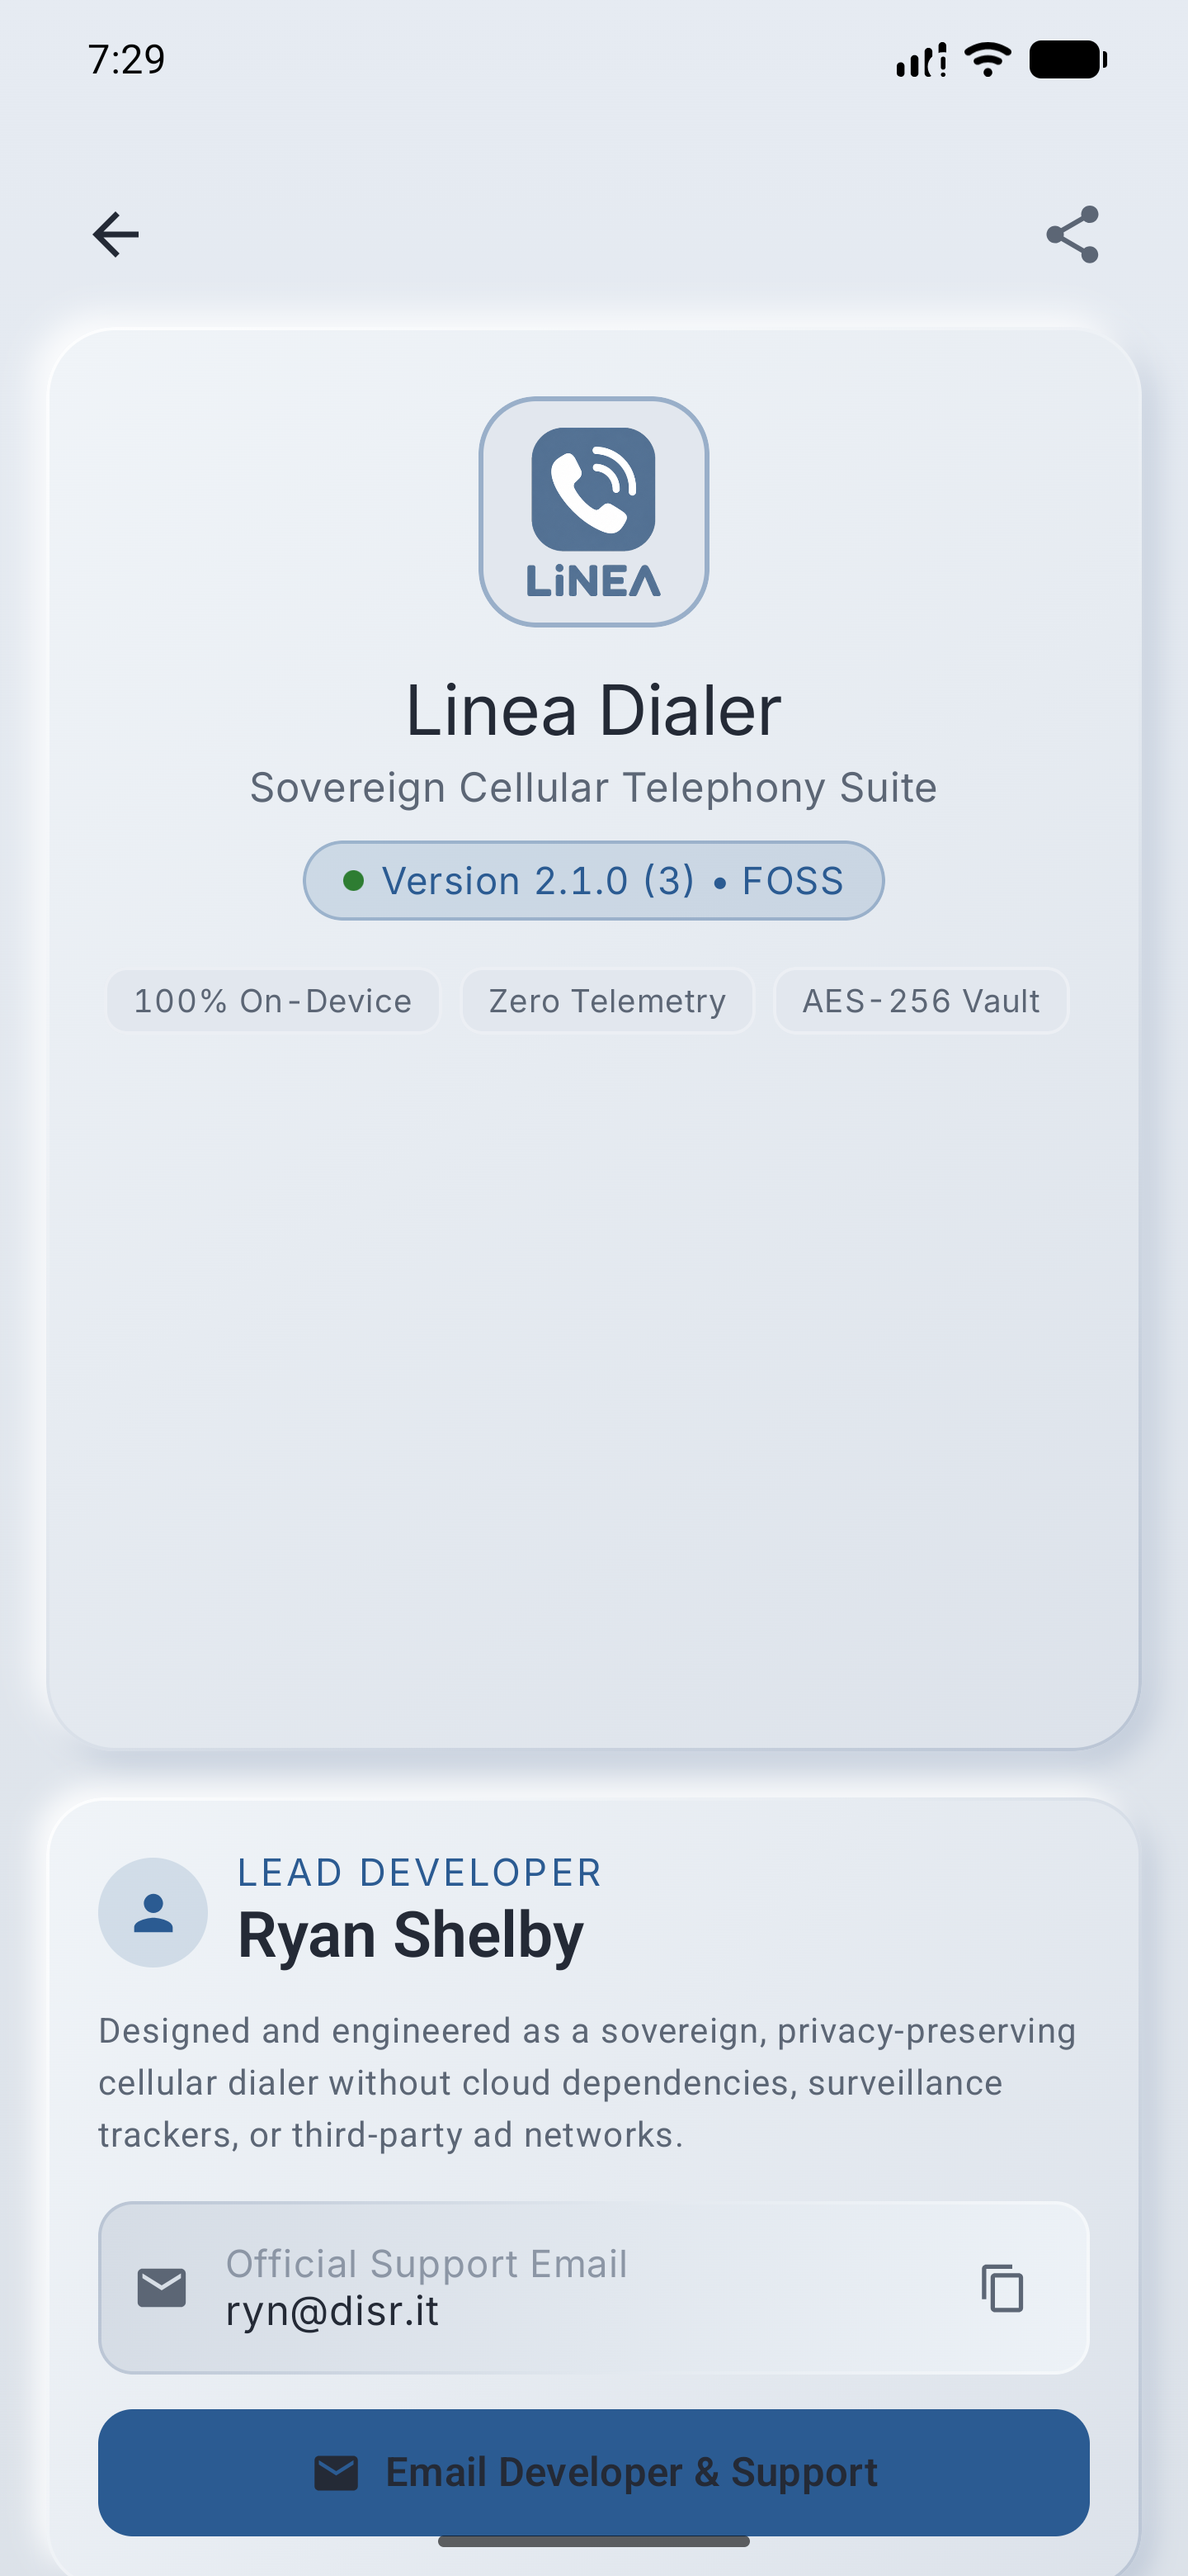
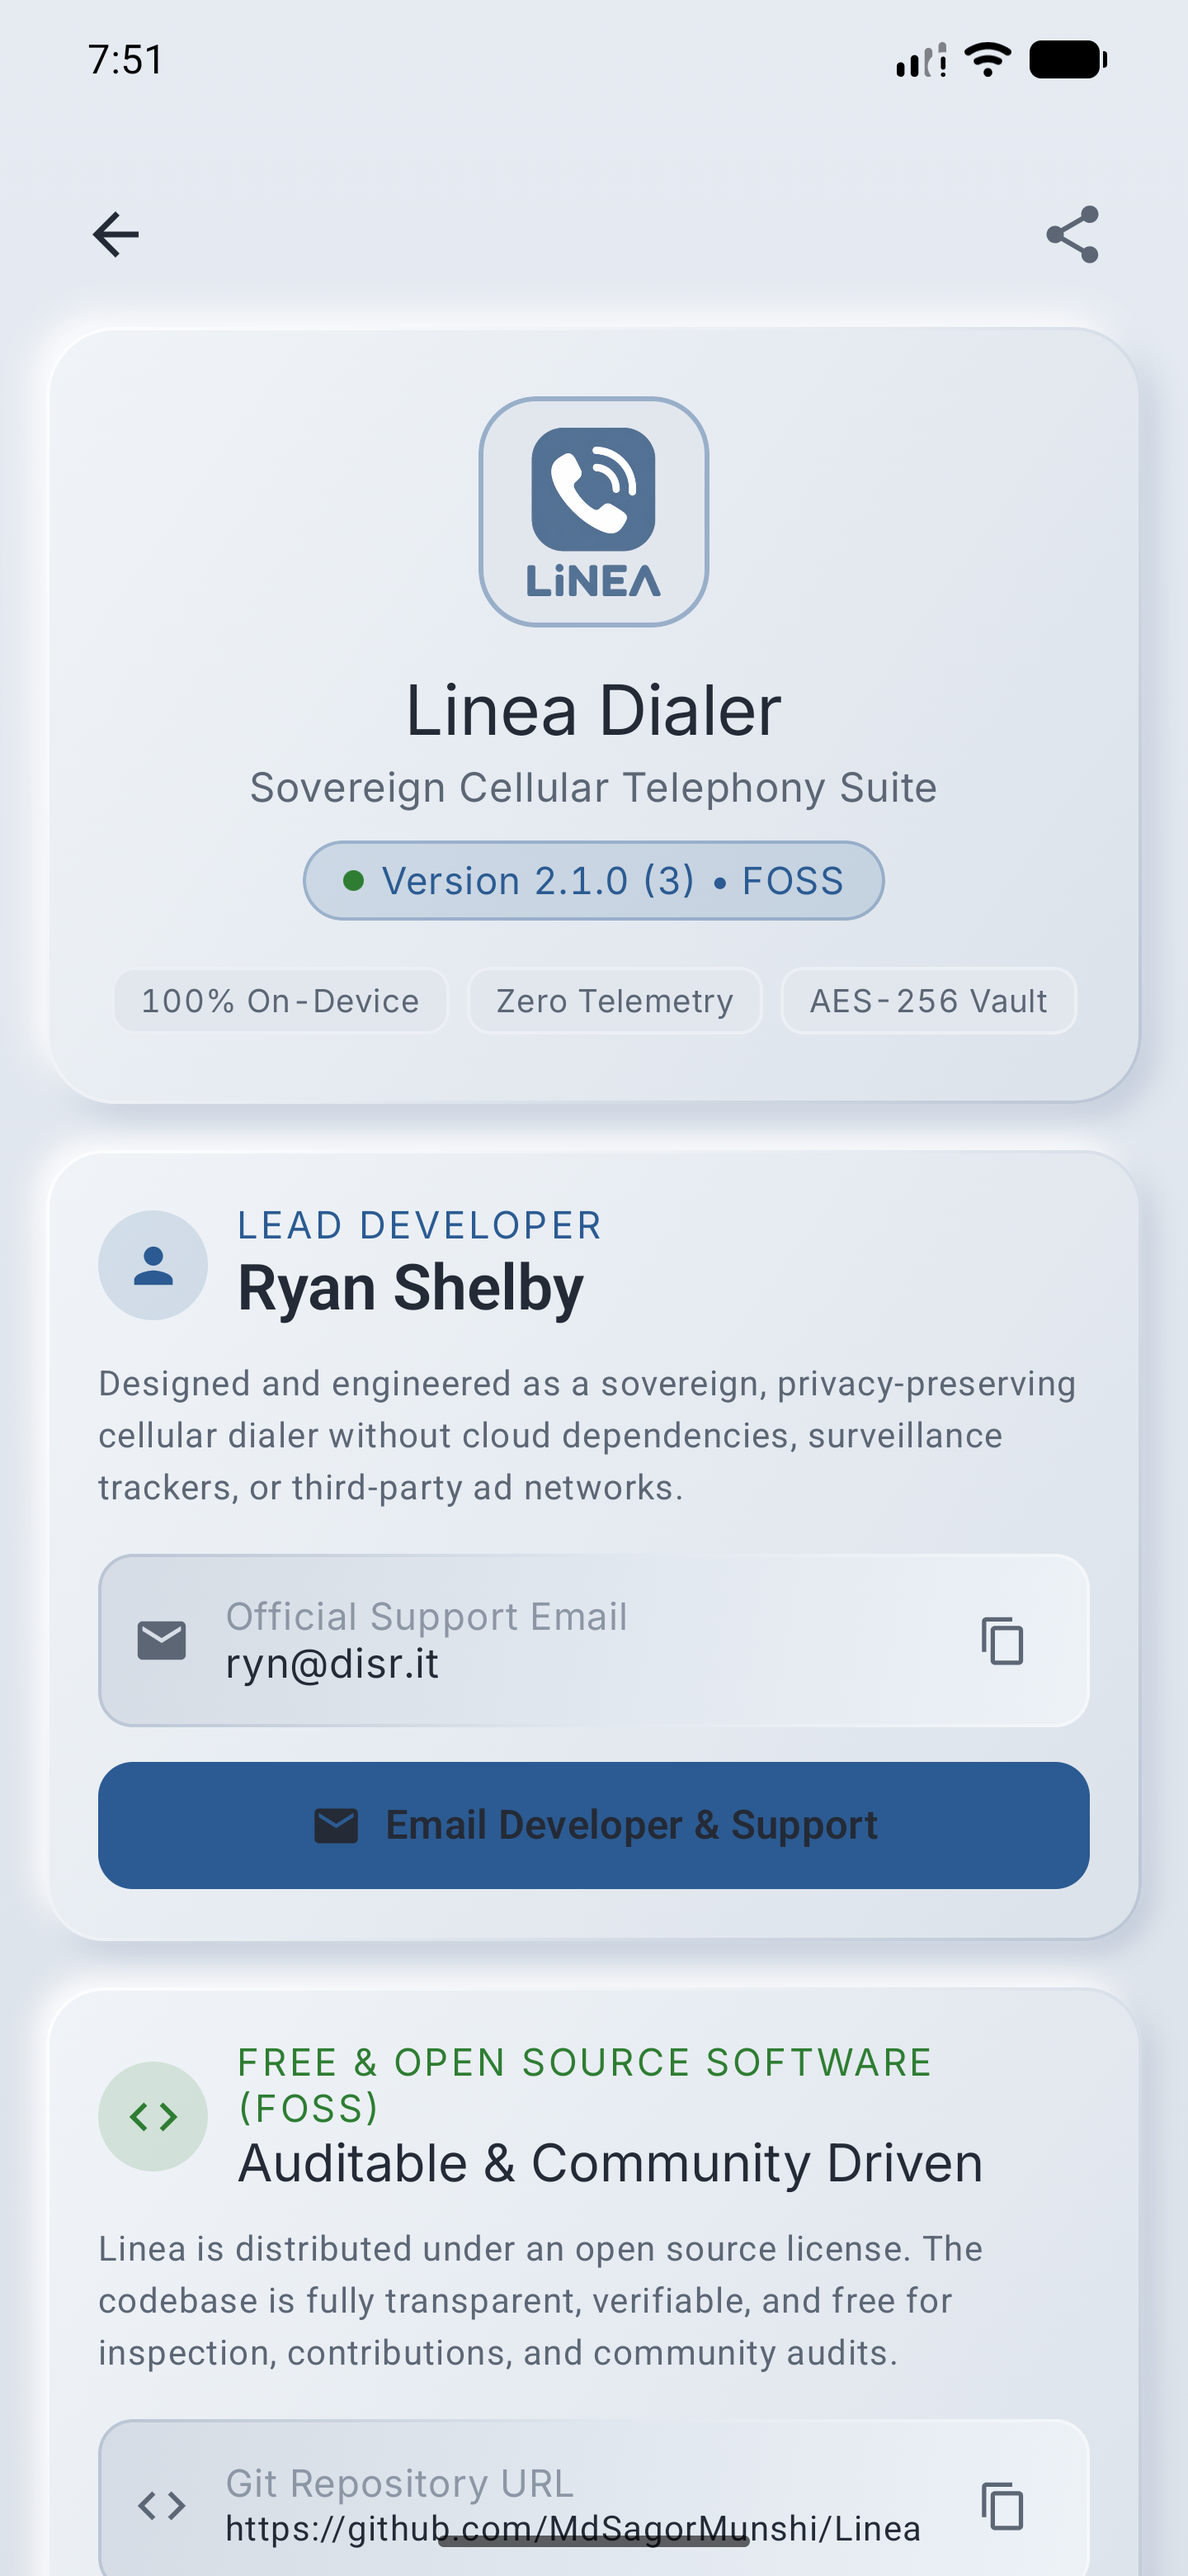
fix(about): resolve vertical space ballooning in hero card and update screenshot

diff --git a/app/src/main/java/com/ryanshelby/linea/ui/screens/settings/about/AboutScreen.kt b/app/src/main/java/com/ryanshelby/linea/ui/screens/settings/about/AboutScreen.kt
@@ -187,9 +187,9 @@ fun AboutScreen(
     ) {
         Column(
             modifier = Modifier
-                .fillMaxSize()
-                .padding(horizontal = LineaDimensions.ScreenPadding)
+                .fillMaxWidth()
                 .verticalScroll(rememberScrollState())
+                .padding(horizontal = LineaDimensions.ScreenPadding)
         ) {
             Spacer(modifier = Modifier.height(16.dp))
 
@@ -309,8 +309,6 @@ fun AboutScreen(
                         FeatureChip(label = "Zero Telemetry")
                         Spacer(modifier = Modifier.width(6.dp))
                         FeatureChip(label = "AES-256 Vault")
-                        Spacer(modifier = Modifier.width(6.dp))
-                        FeatureChip(label = "Tactile Soft UI")
                     }
                 }
             }
